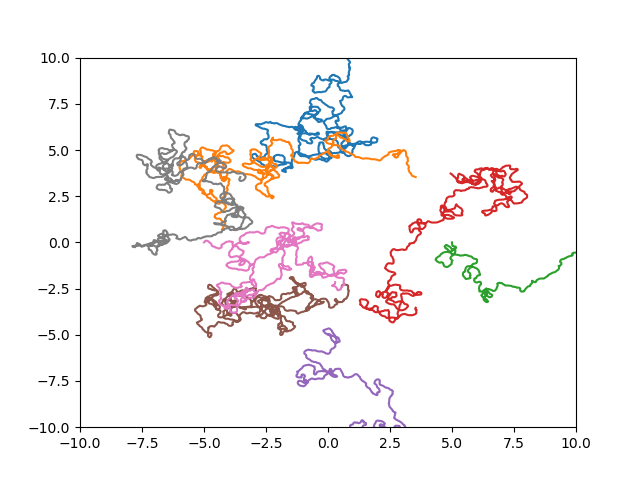
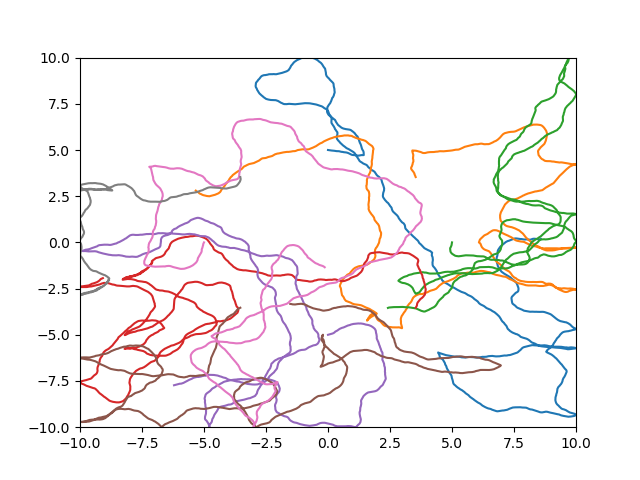
Generating video

diff --git a/motbox/track.py b/motbox/track.py
@@ -7,7 +7,11 @@ moving objects.
 
 import numpy as np
 from scipy.spatial import distance
+from scipy.sparse import csgraph
 import matplotlib.pyplot as plt
+
+from moviepy.editor import VideoClip
+from moviepy.video.io.bindings import mplfig_to_npimage
 
 class Position(object):
     """Represents position of n objects or one timeslice of Track
@@ -174,6 +178,17 @@ class Track(object):
         self.y = newy
         self.time = newtime
 
+    def position_for_time(self, timevalue):
+        """Interpolates coordinates for given time point
+        """
+        n_objects = self.n_objects
+        newx = np.zeros((1, n_objects))
+        newy = np.zeros((1, n_objects))
+        for index in range(n_objects):
+            newx[:, index] = np.interp(timevalue, self.time, self.x[:, index])
+            newy[:, index] = np.interp(timevalue, self.time, self.y[:, index])
+        return (newx, newy)
+
     def load_from_csv(self, filename):
         """Initializes object from data file.
 
@@ -208,13 +223,62 @@ class Track(object):
         plt.ylim(ylim)
         plt.savefig(filename)
 
+    def make_video(self, filename, xlim=(-10, 10), ylim=(-10, 10)):
+        WIDTH = 600
+        HEIGHT = 600
+        DPI = 150
+        FPS = 15
+        DURATION = np.max(self.time) - np.min(self.time)
+
+        fig, axis = plt.subplots(figsize=(1.0 * WIDTH / DPI, 1.0 * HEIGHT / DPI), dpi=DPI)
+        def make_frame(t):
+            axis.clear()
+            (tx, ty) = self.position_for_time(t + np.min(self.time))
+            axis.plot(tx, ty, "o")
+            axis.set_xlim(xlim)
+            axis.set_ylim(ylim)
+            axis.set_title("Time {:.2f} s".format(t))
+            return mplfig_to_npimage(fig)
+        animation = VideoClip(make_frame, duration=DURATION)
+        #animation.write_gif(filename, fps=FPS)
+        animation.write_videofile(filename, fps=FPS)
+        pass
+
     def bounce_square(self, position, direction, arena_opts):
         """Checks for boundary bouncing and returns corrected directions
         """
         xlim = arena_opts["xlim"]
         ylim = arena_opts["ylim"]
-        #tx = position.x + 
-        pass
+        too_R = position.x > xlim[1]
+        too_L = position.x < xlim[0]
+        too_U = position.y < ylim[0]
+        too_D = position.y > ylim[1]
+        too_horizontal = np.logical_or(too_R, too_L)
+        too_vertical = np.logical_or(too_U, too_D)
+        corner = np.logical_and(too_horizontal, too_vertical)
+        side = np.logical_xor(too_horizontal, too_vertical)
+        direction[corner] = np.mod(direction[corner] + np.pi, 2 * np.pi)
+        direction[np.logical_and(side, too_horizontal)] = 2 * np.pi - direction[np.logical_and(side, too_horizontal)]
+        direction[np.logical_and(side, too_vertical)] = np.mod(np.pi - direction[np.logical_and(side, too_vertical)], 2 * np.pi)
+        return direction
+
+    def bounce_objects(self, position, direction, opts):
+        """Checks for minimum inter-object spacing
+        """
+        spacing = opts["spacing"]
+        coords = np.zeros((position.n_objects, 2))
+        coords[:, 0] = position.x
+        coords[:, 1] = position.y
+        distances = distance.squareform(distance.pdist(coords)) < spacing
+        n_groups, grouping = csgraph.connected_components(distances)
+        for group_code in range(n_groups):
+            count = np.sum(grouping == group_code)
+            if count == 2:
+                direction[grouping == group_code] = direction[grouping == group_code][::-1]
+            if count > 2:
+                direction[grouping == group_code] = np.mod(direction[grouping == group_code] + np.pi, 2 * np.pi)
+        return direction
+
 
 
     def generate_vonmises(self, position, speed, kappa,
@@ -233,7 +297,15 @@ class Track(object):
         self.x[0, :] = position.x
         self.y[0, :] = position.y
         for frame in range(1, len(self.time)):
-            # check collisions and boundary
+            # check boundary
+            direction_old = direction.copy()
+            direction = self.bounce_square(position, direction,
+                {"xlim": (-10, 10), "ylim": (-10, 10)})
+            # check collisions
+            direction_old = direction.copy()
+            direction = self.bounce_objects(position, direction, {"spacing":2.})
+
+            position.move((np.sin(direction) * step, np.cos(direction) * step))
 
             tx = self.x[frame - 1, :] + np.sin(direction) * step
             ty = self.y[frame - 1, :] + np.cos(direction) * step

diff --git a/test/test_track.py b/test/test_track.py
@@ -3,6 +3,8 @@ import numpy as np
 from numpy import testing
 from motbox import *
 
+COMPLETE = False
+
 class TestTrack(unittest.TestCase):
     # https://docs.python.org/2/library/unittest.html
     # http://pythontesting.net/framework/unittest/unittest-introduction/
@@ -51,39 +53,26 @@ class TestTrack(unittest.TestCase):
         step = self.T1.timestep()
         self.assertAlmostEqual(step, 0.01)
 
+    @unittest.skipUnless(COMPLETE, "Time consuming video generation")
     def test_generate_vonmises(self):
         #, position, speed, kappa, time=None, direction=None):
         self.T1.generate_vonmises(
             Position().circular_positions(8, 5),
             5.,
-            4)
+            40)
         self.T1.plot("test_generated.png")
+        self.T1.make_video("test_generated.mp4")
         self.assertTrue(True)
 
     def test_plot(self):
         self.T1.plot("test_trajectory.png")
         self.assertTrue(True)
 
-    # def test_move_numpy_2d(self):
-    #     self.T1.move((self.matrix_28))
-    #     pass
+    @unittest.skipUnless(COMPLETE, "Time consuming video generation")
+    def test_make_video(self):
+        self.T1.make_video("test_video.mp4")
+        self.assertTrue(True)
 
 # if __name__ == '__main__':
 #     unittest.main()
 #
-#     def move(self, difference):
-#         """Shifts all x,y by constant.
-#
-#         Expects array or tuple
-#         """
-#         self.x += difference[0]
-#         self.y += difference[1]
-#
-#     def scale(self, factor):
-#         """Multiplies all x,y by constant
-#
-#         """
-#         self.x *= factor
-#         self.y *= factor
-##
-#     def time_interpolate(self, newtime):

diff --git a/motbox/control.py b/motbox/control.py
@@ -16,22 +16,11 @@ class Puppeteer(object):
         self.objects = []
         self.track = None
 
-    def position_for_time(self, timevalue):
-        """Interpolates coordinates for given time point
-        """
-        n_objects = self.track.n_objects
-        newx = np.zeros((1, n_objects))
-        newy = np.zeros((1, n_objects))
-        for index in range(n_objects):
-            newx[:, index] = np.interp(timevalue, self.track.time, self.track.x[:, index])
-            newy[:, index] = np.interp(timevalue, self.track.time, self.track.y[:, index])
-        return (newx, newy)
-
     def update_positions_psychopy(self, timevalue):
         """Updates the controlled objects' positions to coordinates based on
         given time point
         """
-        (newx, newy) = self.position_for_time(timevalue)
+        (newx, newy) = self.track.position_for_time(timevalue)
         n_track_objects = self.track.n_objects
         n_screen_objects = len(self.objects)
         for index in range(min(n_track_objects, n_screen_objects)):

diff --git a/README.md b/README.md
@@ -6,4 +6,4 @@ Use `pylint motbox/*.py` or `pylint motbox/yourfile.py`
 
 ## Unit tests
 
-Use `python -m unittest discover test` at tom folder level.
+Use `python -m unittest discover test` at top folder level.
